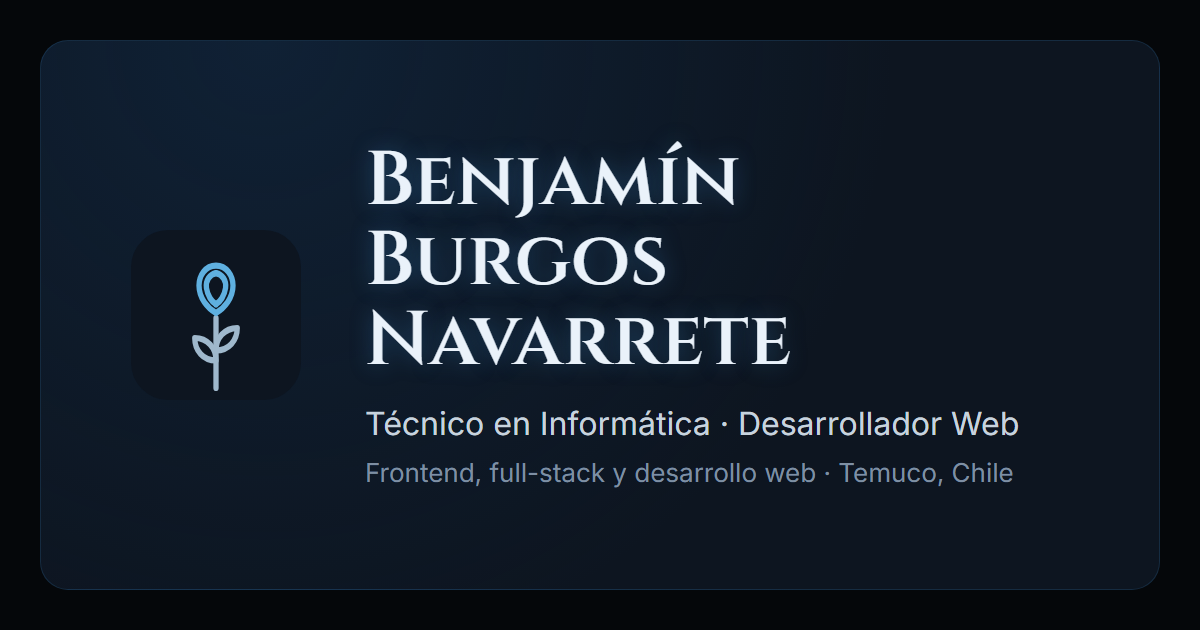
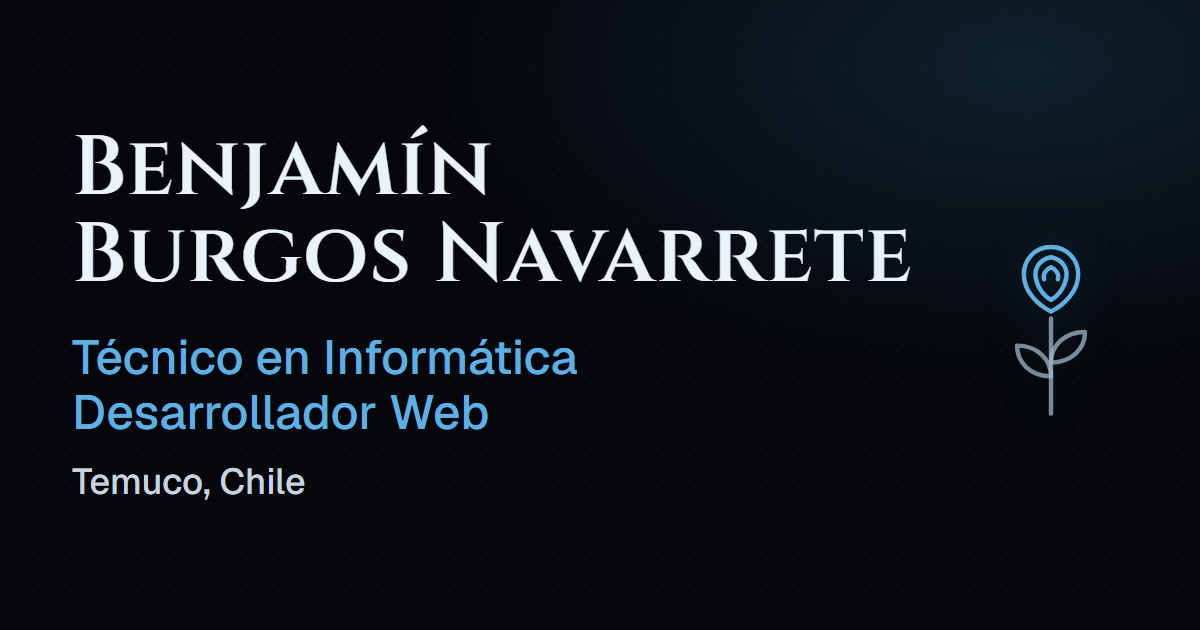
Agrandar el texto de la imagen de Open Graph
Se quita la tarjeta y el contenido ocupa todo el ancho: nombre a 84px,
subtítulo en dos líneas a 48px y "Temuco, Chile" a 36px, con la rosa a la
derecha. Así se lee en la vista previa de LinkedIn en celular.

diff --git a/CLAUDE.md b/CLAUDE.md
@@ -94,6 +94,8 @@ CLAUDE.md    Este archivo
 
 ## Registro de cambios
 
+- **2026-09-26:** nueva `og-image.png` a sangre completa (sin tarjeta): nombre, subtítulo en dos líneas a 48px y "Temuco, Chile", para que se lea en la vista previa de LinkedIn en celular.
+
 - **2026-09-26:** se fusiona la rama `rediseno` en `main` (dirección B "editorial oscuro") junto con Open Graph absoluto, `og:url`, `canonical` y el pie limpio; se borra la rama.
 - **2026-09-26:** sitio publicado en https://portafolio-alpha-one-11.vercel.app/; Open Graph con URL absoluta, `og:url` y `canonical`; se quita "Console UI adaptation" del pie.
 - **2026-09-26 (rama `rediseno`):** dirección B "editorial oscuro": cabecera fija con navegación, hero alineado a la izquierda con la rosa, datos clave en "Sobre mí", Arte Xebi destacado con captura, habilidades agrupadas, trayectoria en dos columnas y contacto con el correo grande. Se quitan canvas, texto tipeado, riel y botón volver arriba.
